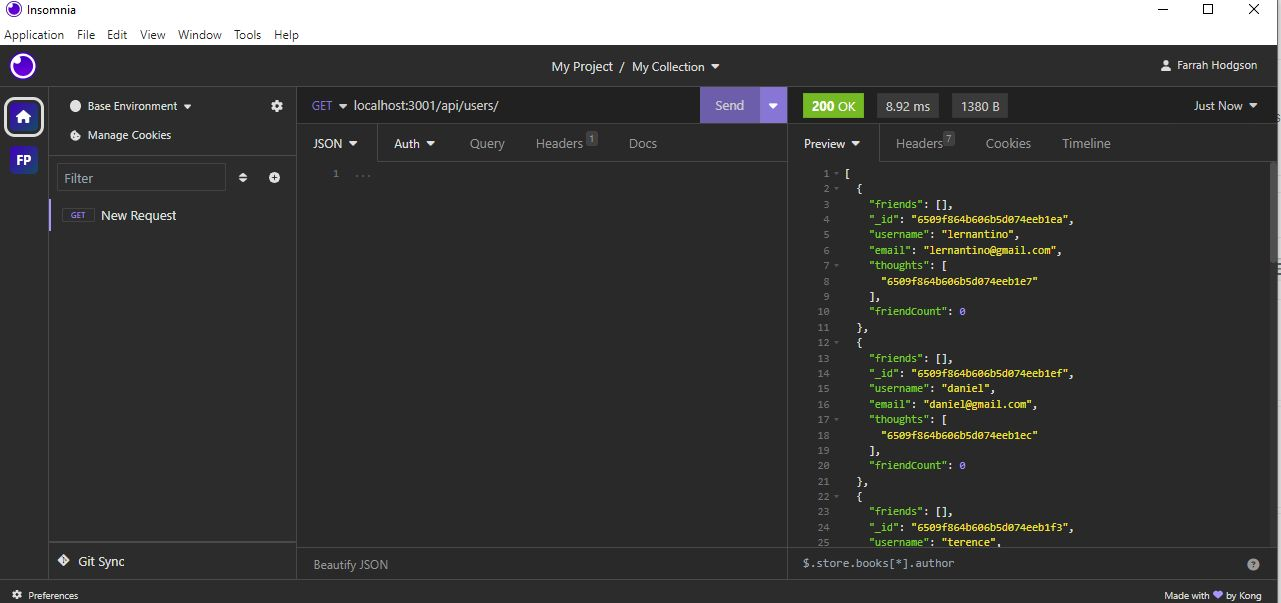
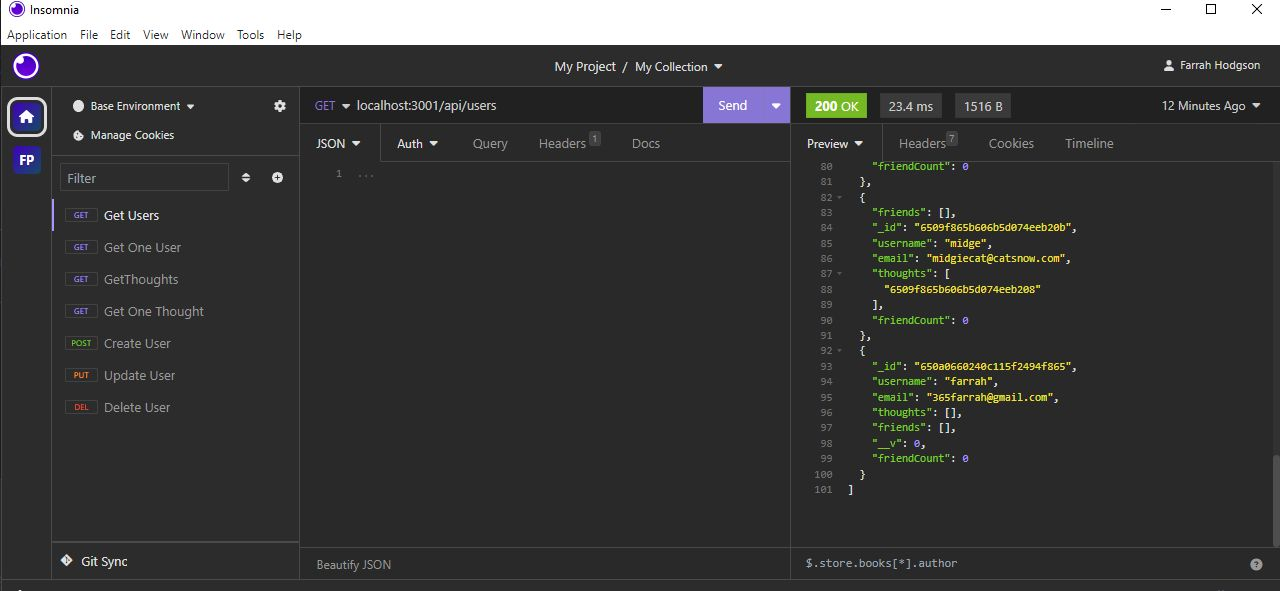
added new screenshots

diff --git a/README.md b/README.md
@@ -38,17 +38,26 @@ When you test API POST, PUT, and DELETE routes in Insomnia, you are able to succ
 
 When you test API POST and DELETE routes in Insomnia, you are able to successfully create and delete reactions to thoughts and add and remove friends to a user’s friend list.
 
-**https://insomnia.rest/**
-
 ## Video
 
 **Watch this VIDEO to see how the app runs!**
 
-https://drive.google.com/file/d/1WfkFoGu-8o8E5m4yCyRcSVpQEscQN3mi/view
+https://drive.google.com......
 
 ## Screenshots
 
-![Application](Images/get.jpg)
-![Application](Images/post.jpg)
-![Application](Images/put.jpg)
-![Application](Images/delete.jpg)
+![Application](Screenshots/get1.jpg)
+![Application](Screenshots/get2.jpg)
+![Application](Screenshots/get3.jpg)
+![Application](Screenshots/get4.jpg)
+![Application](Screenshots/post1.jpg)
+![Application](Screenshots/put1.jpg)
+![Application](Screenshots/delete1.jpg)
+
+## Credits
+
+Juno Nguyen (tutor)
+
+## Tests
+
+**https://insomnia.rest/**
